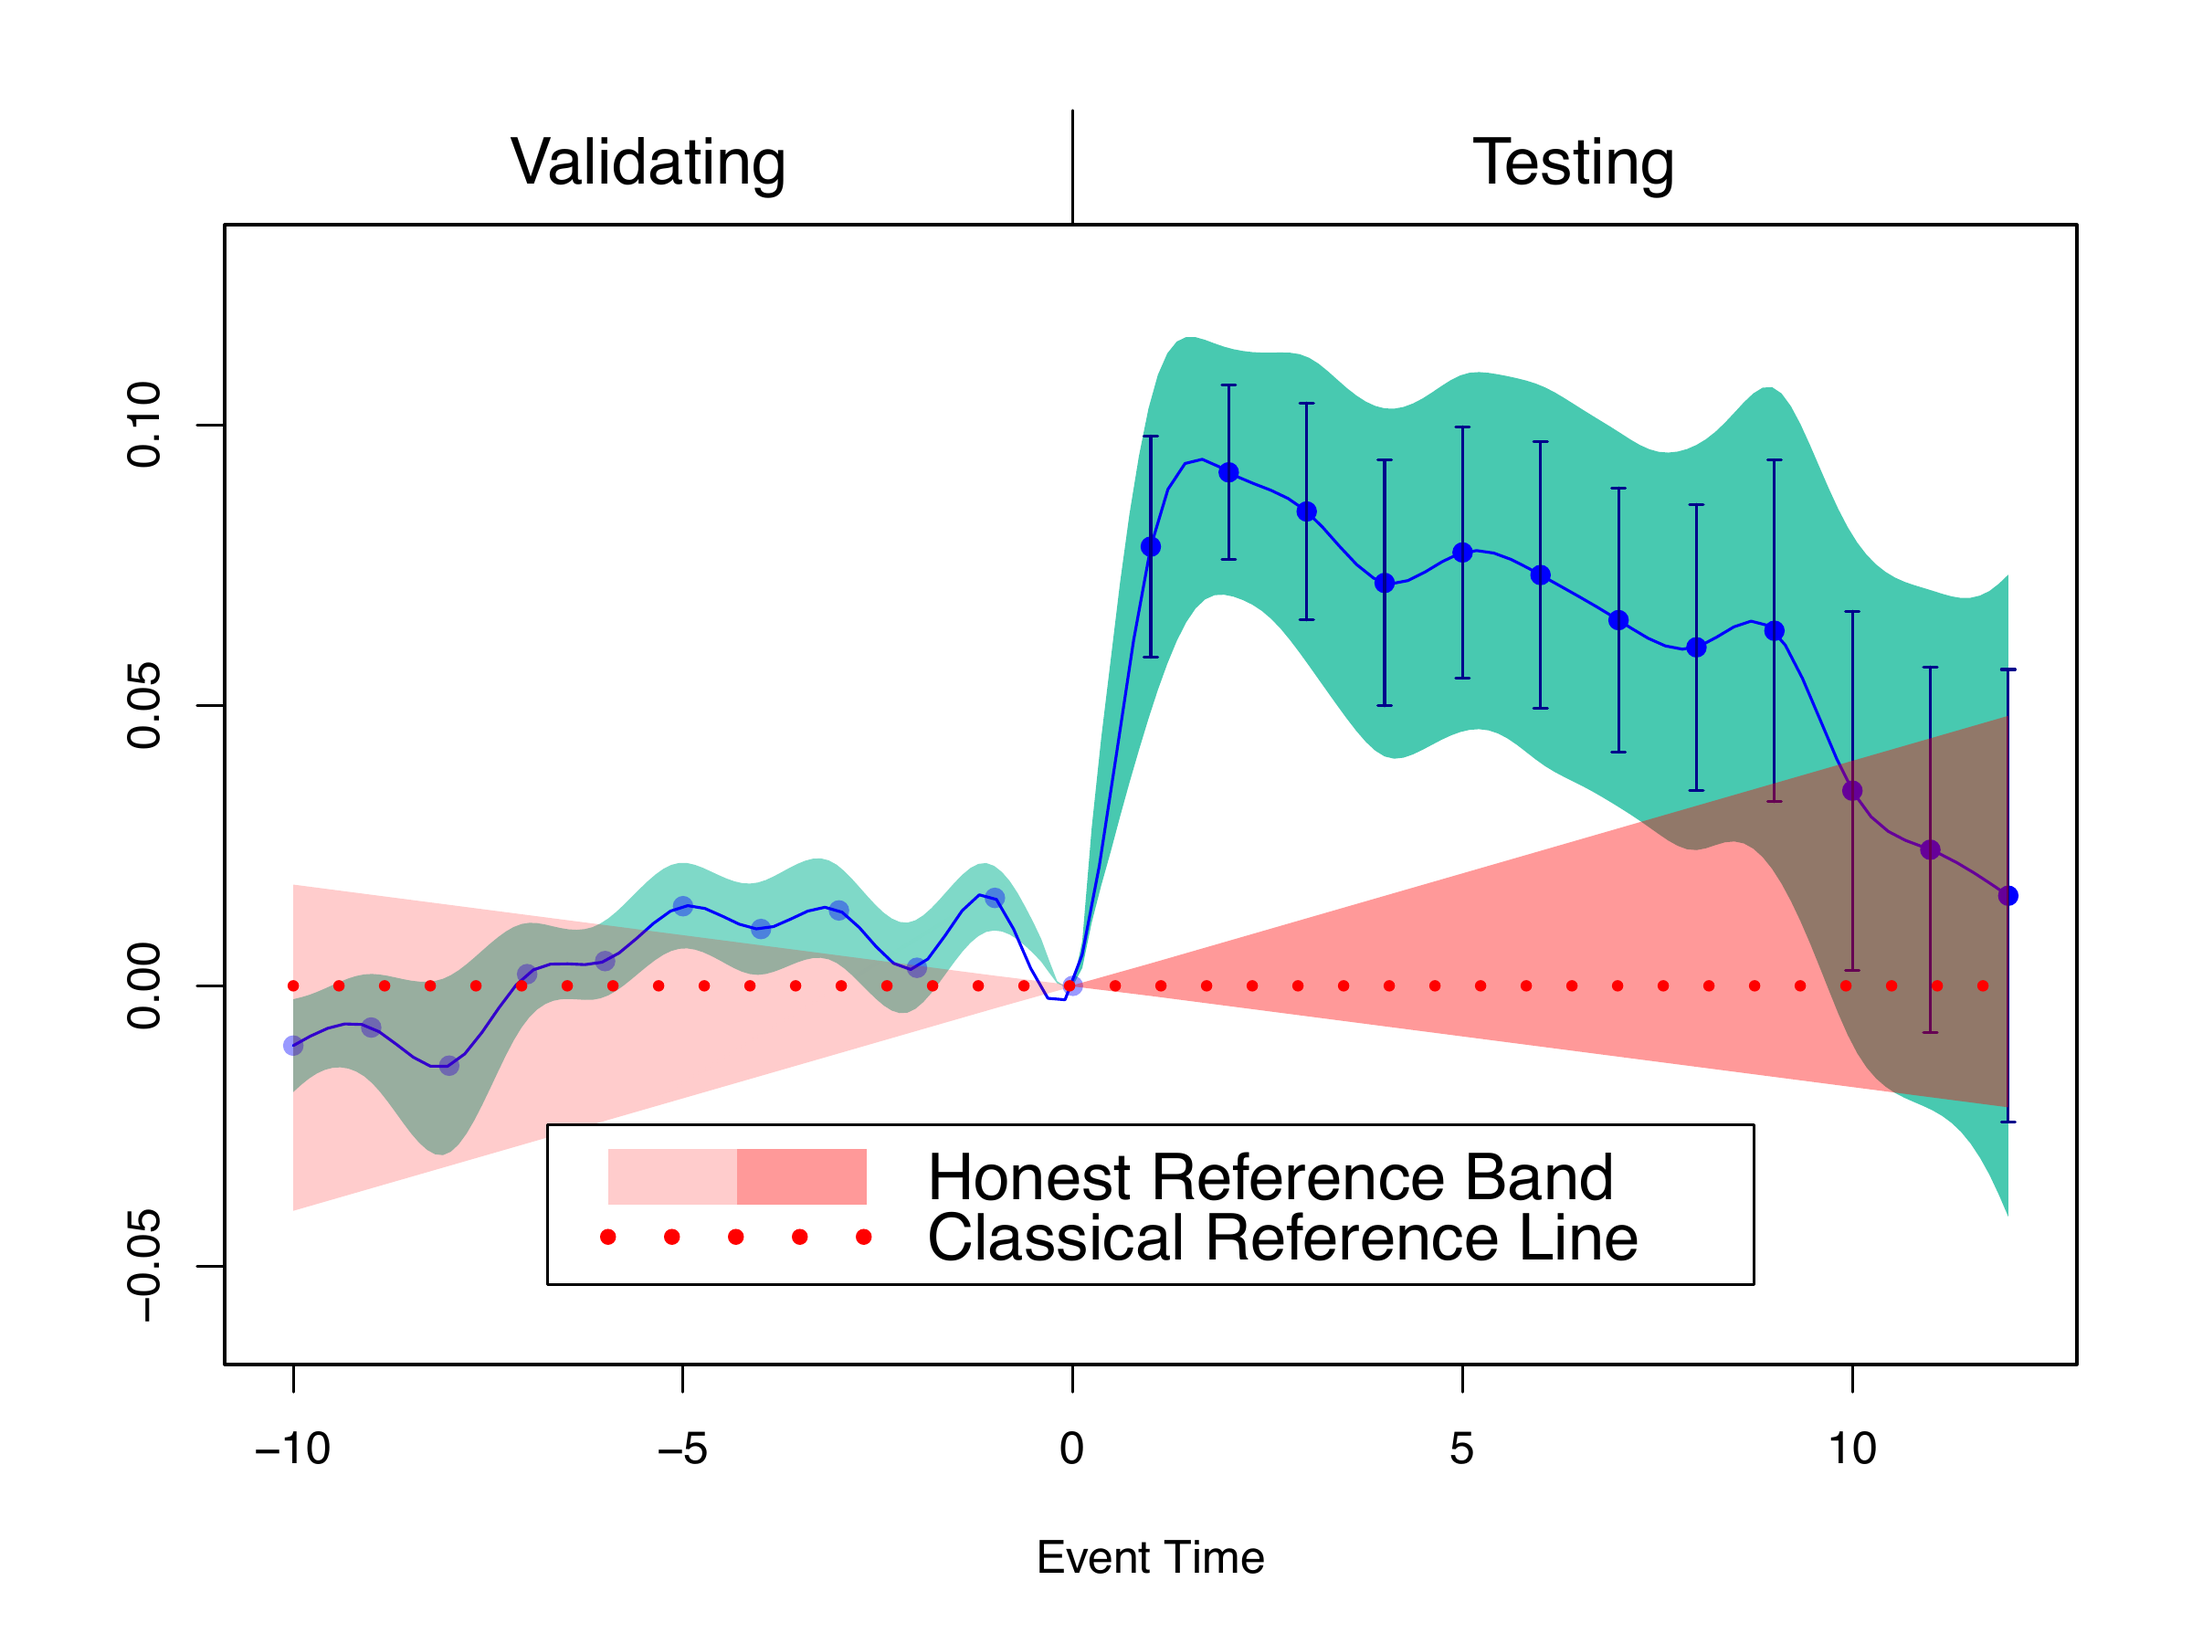
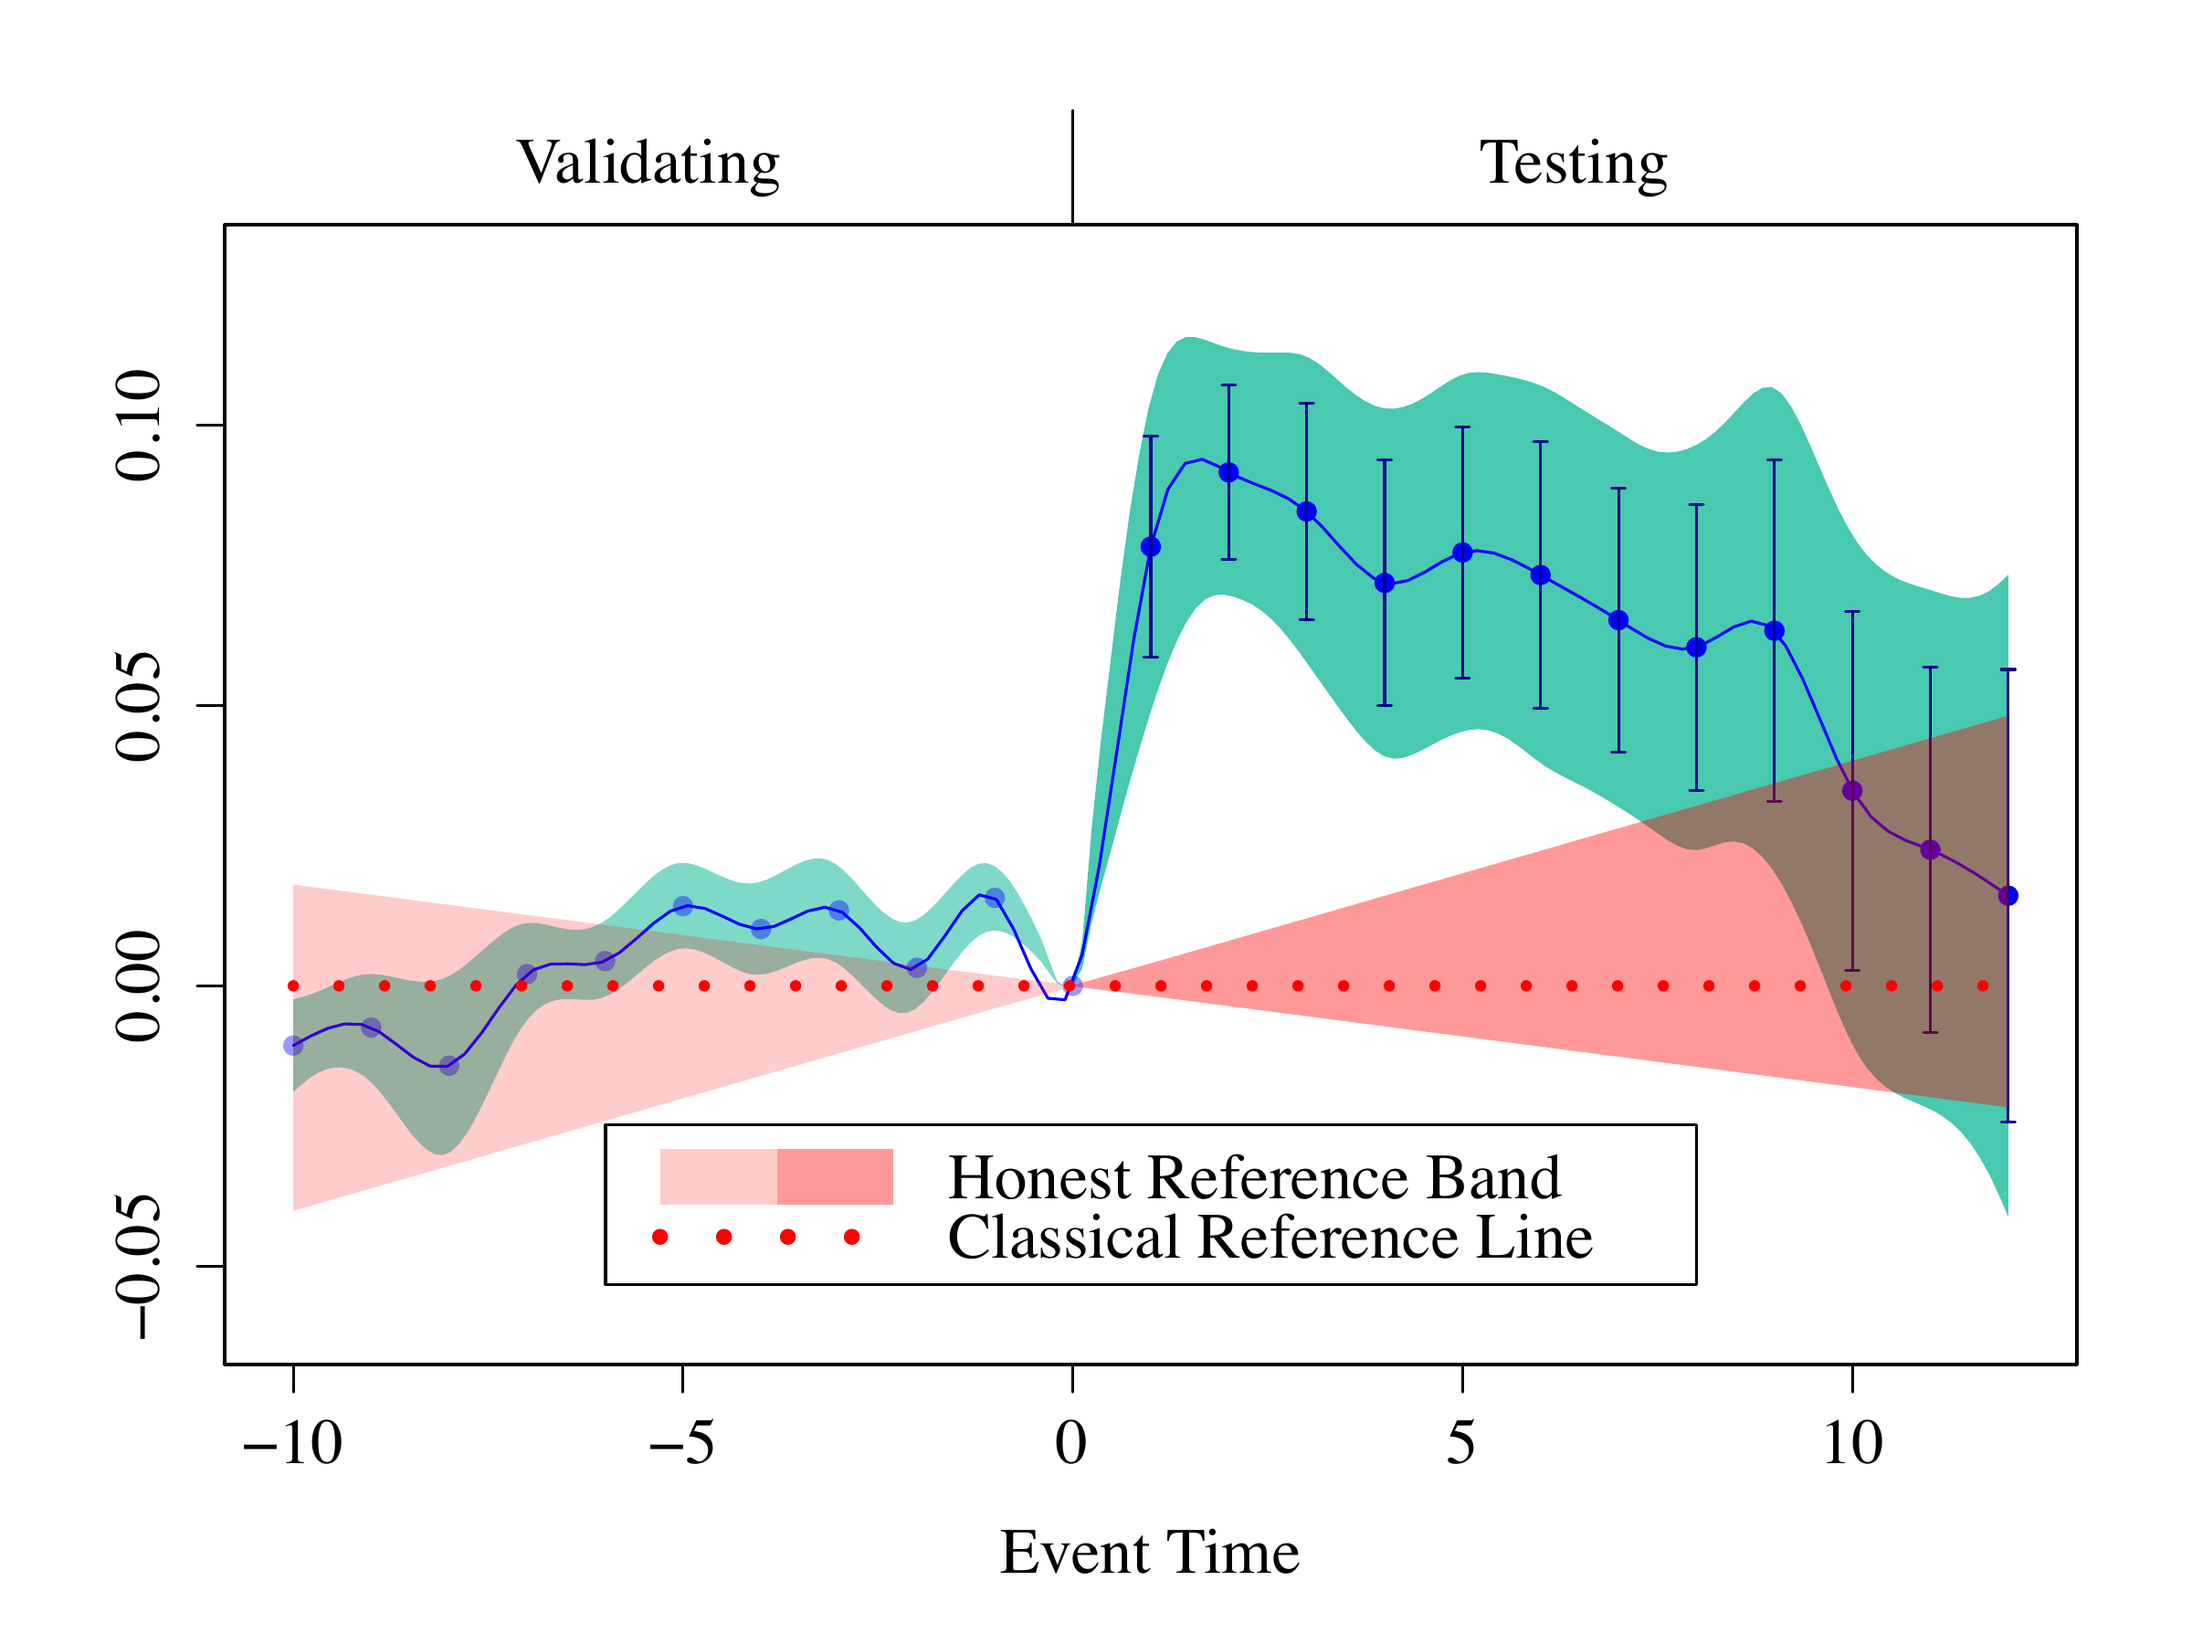
Updating the year

diff --git a/README.md b/README.md
@@ -8,7 +8,7 @@
 ![GitHub Repo stars](https://img.shields.io/github/stars/ccfang2/fdid?style=social)
 
 
-The R package `fdid` allows users to implement the method proposed in Fang and Liebl (2025)[^1]. In this paper, we present a novel functional perspective on Difference-in-Differences (DiD) that allows for honest inference using event study plots under violations of parallel trends and/or no-anticipation assumptions. Specifically, in our proposed plot, we compute an infimum-based simultaneous confidence band in the pre-treatment period by parametric bootstrap, and a supremum-based simultaneous confidence band in the post-treatment period by the algorithm of Kac-Rice formula proposed in Liebl and Reimherr (2023)[^2]. Additionally, by contrast to classical reference line in traditional event study plots, we derive an honest reference band, accounting for potential biases from the violation of parallel trends or no-anticipation assumption, when making inference.
+The R package `fdid` allows users to implement the method proposed in Fang and Liebl (2026)[^1]. In this paper, we present a novel functional perspective on Difference-in-Differences (DiD) that allows for honest inference using event study plots under violations of parallel trends and/or no-anticipation assumptions. Specifically, in our proposed plot, we compute an infimum-based simultaneous confidence band in the pre-treatment period by parametric bootstrap, and a supremum-based simultaneous confidence band in the post-treatment period by the algorithm of Kac-Rice formula proposed in Liebl and Reimherr (2023)[^2]. Additionally, by contrast to classical reference line in traditional event study plots, we derive an honest reference band, accounting for potential biases from the violation of parallel trends or no-anticipation assumption, when making inference.
 
 By doing so, we turn traditional event study plots into rigorous honest causal inference tools through equivalence and relevance testing: Honest reference band can be validated using equivalence testing in the pre-anticipation period, and honest causal effects can be tested using relevance testing in the post-treatment period.
 
@@ -32,6 +32,7 @@ library(fdid)
 data(Gdata)
 Gdata$beta[,"event_t"] <- Gdata$beta[,"event_t"]- Gdata$t0 #Recenter the event time on 0
 fdid_scb_est <- fdid_scb(beta=Gdata$beta, cov=Gdata$cov, t0=0)
+par(cex.axis = 1.4, cex.lab = 1.4, cex.main = 1.4, family="Times")
 EventStudyPlot_Classical(fdid_scb_est, pos.legend="bottom", scale.legend=1.4)
 ```
 
@@ -54,10 +55,11 @@ the empirical DiD literature—thereby embedding the DiD methodology within a co
 
 ## Simultaneous Confidence Bands
 
-We can therefore transform the traditional event study plot into a rigorous honest inference tool with the infimum-based 90% simultaneous confidence band in pre-treatment period and supremum-based 95% simultaneous confidence band in post-treatment period. The infimum-based 90% simultaneous confidence band is for performing equivalence testing at significance level 5% (see Section 3.3 in Fang and Liebl (2025)[^1]), i.e. validating the honest reference band in the pre-anticipation period; and the supremum-based 95% simultaneous confidence band is for performing relevance testing at significance level 5% (see Section 3.1 in Fang and Liebl (2025)[^1]), i.e. uniformly and honestly testing causal inference in the post-treatment period. The following is the new plot using simultaneous confidence bands.
+We can therefore transform the traditional event study plot into a rigorous honest inference tool with the infimum-based 90% simultaneous confidence band in pre-treatment period and supremum-based 95% simultaneous confidence band in post-treatment period. The infimum-based 90% simultaneous confidence band is for performing equivalence testing at significance level 5% (see Section 3.3 in Fang and Liebl (2026)[^1]), i.e. validating the honest reference band in the pre-anticipation period; and the supremum-based 95% simultaneous confidence band is for performing relevance testing at significance level 5% (see Section 3.1 in Fang and Liebl (2026)[^1]), i.e. uniformly and honestly testing causal inference in the post-treatment period. The following is the new plot using simultaneous confidence bands.
 
 ``` r
-plot(fdid_scb_est, pos.legend="bottom", scale.legend=1.4, note.pre=FALSE)
+par(cex.axis = 1.4, cex.lab = 1.4, cex.main = 1.4, family="Times")
+plot(fdid_scb_est, pos.legend="bottom", scale.legend=1.4, note.pre=FALSE, ci.post=TRUE)
 ```
 
 <p align="center">
@@ -74,9 +76,10 @@ To conduct honest inference using the plot above, we need to derive the honest r
 
 ## Example 1: Honest Reference Band under Violation of No-anticipation Assumption
 
-We now suppose that, after event time -2, there is an anticipation of treatment. We use control parameters $S_{u}=1.55$ and $S_{\ell}=2.55$ to derive the reference band (see equation (36) in Fang and Liebl (2025)[^1] for details on the control parameters).
+We now suppose that, after event time -2, there is an anticipation of treatment. We use control parameters $S_{u}=1.55$ and $S_{\ell}=2.55$ to derive the reference band (see equation (36) in Fang and Liebl (2026)[^1] for details on the control parameters).
 
 ``` r
+par(cex.axis = 1.4, cex.lab = 1.4, cex.main = 1.4, family="Times")
 plot(fdid_scb_est, ta.ts=-2, ta.s=c(1.55,2.55), pos.legend="bottom", scale.legend=1.4, ci.post=TRUE, ref.band.pre = TRUE)
 ```
 
@@ -84,13 +87,14 @@ plot(fdid_scb_est, ta.ts=-2, ta.s=c(1.55,2.55), pos.legend="bottom", scale.legen
 <img src="man/figures/plot_scb_ta.png" width="80%">
 </p>
 
-With an anticipation after event time -2, one may see that the treatment effect is still uniformly significant over event time [0.5, 8.8]. With the given control parameters, the reference band can be validated at the significance level 5%, since the infimum-based 90% simultaneous confidence band strictly lies within the reference band in the pre-anticipation period (see Section 3.3 in Fang and Liebl (2025)[^1] for details). The result shows that the treatment effect in Gallagher(2014)[^3] is robust under the considered treatment anticipation.
+With an anticipation after event time -2, one may see that the treatment effect is still uniformly significant over event time [0.5, 8.8]. With the given control parameters, the reference band can be validated at the significance level 5%, since the infimum-based 90% simultaneous confidence band strictly lies within the reference band in the pre-anticipation period (see Section 3.3 in Fang and Liebl (2026)[^1] for details). The result shows that the treatment effect in Gallagher(2014)[^3] is robust under the considered treatment anticipation.
 
 ## Example 2: Honest Reference Band under Violation of Parallel Trends Assumption
 
-We now suppose that, there is differential trend. We use control parameters $M_{u}=0.3$ and $M_{\ell}=0.3$ to derive the reference band (see equation (37) in Fang and Liebl (2025)[^1] for details on the control parameters).
+We now suppose that, there is differential trend. We use control parameters $M_{u}=0.3$ and $M_{\ell}=0.3$ to derive the reference band (see equation (37) in Fang and Liebl (2026)[^1] for details on the control parameters).
 
 ``` r
+par(cex.axis = 1.4, cex.lab = 1.4, cex.main = 1.4, family="Times")
 plot(fdid_scb_est, frmtr.m=c(0.3,0.3), pos.legend="bottom", scale.legend=1.4, ci.post=TRUE, ref.band.pre = TRUE)
 ```
 
@@ -100,13 +104,13 @@ plot(fdid_scb_est, frmtr.m=c(0.3,0.3), pos.legend="bottom", scale.legend=1.4, ci
 
 In the plot above, although the reference band cannot be validated at the significance level 5% due to high data variability, it captures the visible upward pre-trend with a width comparable to that of the infimum-based band, providing substantive justification. Using this reference band, we find that the treatment effect is still uniformly significant over event time [0, 7.3]. The result shows that the treatment effect in Gallagher(2014)[^3] is robust under the considered violation of parallel trends assumption.
 
-> In some cases, validating a given reference band can be challenging, as doing so may require selecting a very wide reference band—thereby making subsequent testing in the post-treatment period overly conservative. Such non-rejection of the equivalence null hypothesis (see Section 3.3 in Fang and Liebl (2025)[^1] for details) often reflects limited sample size or high variability, and must be viewed as a lack of evidence against the null, not confirmation of it. Thus, a reference band failing to pass the validation can still be used for honest inference when its specification can be supported by domain-specific justification.
+> In some cases, validating a given reference band can be challenging, as doing so may require selecting a very wide reference band—thereby making subsequent testing in the post-treatment period overly conservative. Such non-rejection of the equivalence null hypothesis (see Section 3.3 in Fang and Liebl (2026)[^1] for details) often reflects limited sample size or high variability, and must be viewed as a lack of evidence against the null, not confirmation of it. Thus, a reference band failing to pass the validation can still be used for honest inference when its specification can be supported by domain-specific justification.
 
 ## Contact
 Chencheng Fang, Email: [ccfang[at]uni-bonn.de](mailto:ccfang@uni-bonn.de), Hausdorff Center for Mathematics; Institute of Finance and Statistics, University of Bonn
 
 
-[^1]: Fang, C. and Liebl, D. (2025). Making Event Study Plots Honest: A Functional Data Approach to Causal Inference. [arXiv:2512.06804](https://arxiv.org/abs/2512.06804).
+[^1]: Fang, C. and Liebl, D. (2026). Making Event Study Plots Honest: A Functional Data Approach to Causal Inference. [arXiv:2512.06804](https://arxiv.org/abs/2512.06804).
 [^2]: Liebl, D. and M. Reimherr (2023). Fast and fair simultaneous confidence bands for functional parameters. Journal of the Royal Statistical Society Series B: Statistical Methodology 85(3), 842–868.
 [^3]: Gallagher, J. (2014). Learning about an Infrequent Event: Evidence from Flood Insurance Take-Up in the United States. American Economic Journal: Applied Economics 6(3), 206–33.
 [^4]: Rambachan, A. and J. Roth (2023). A more credible approach to parallel trends. The Review
